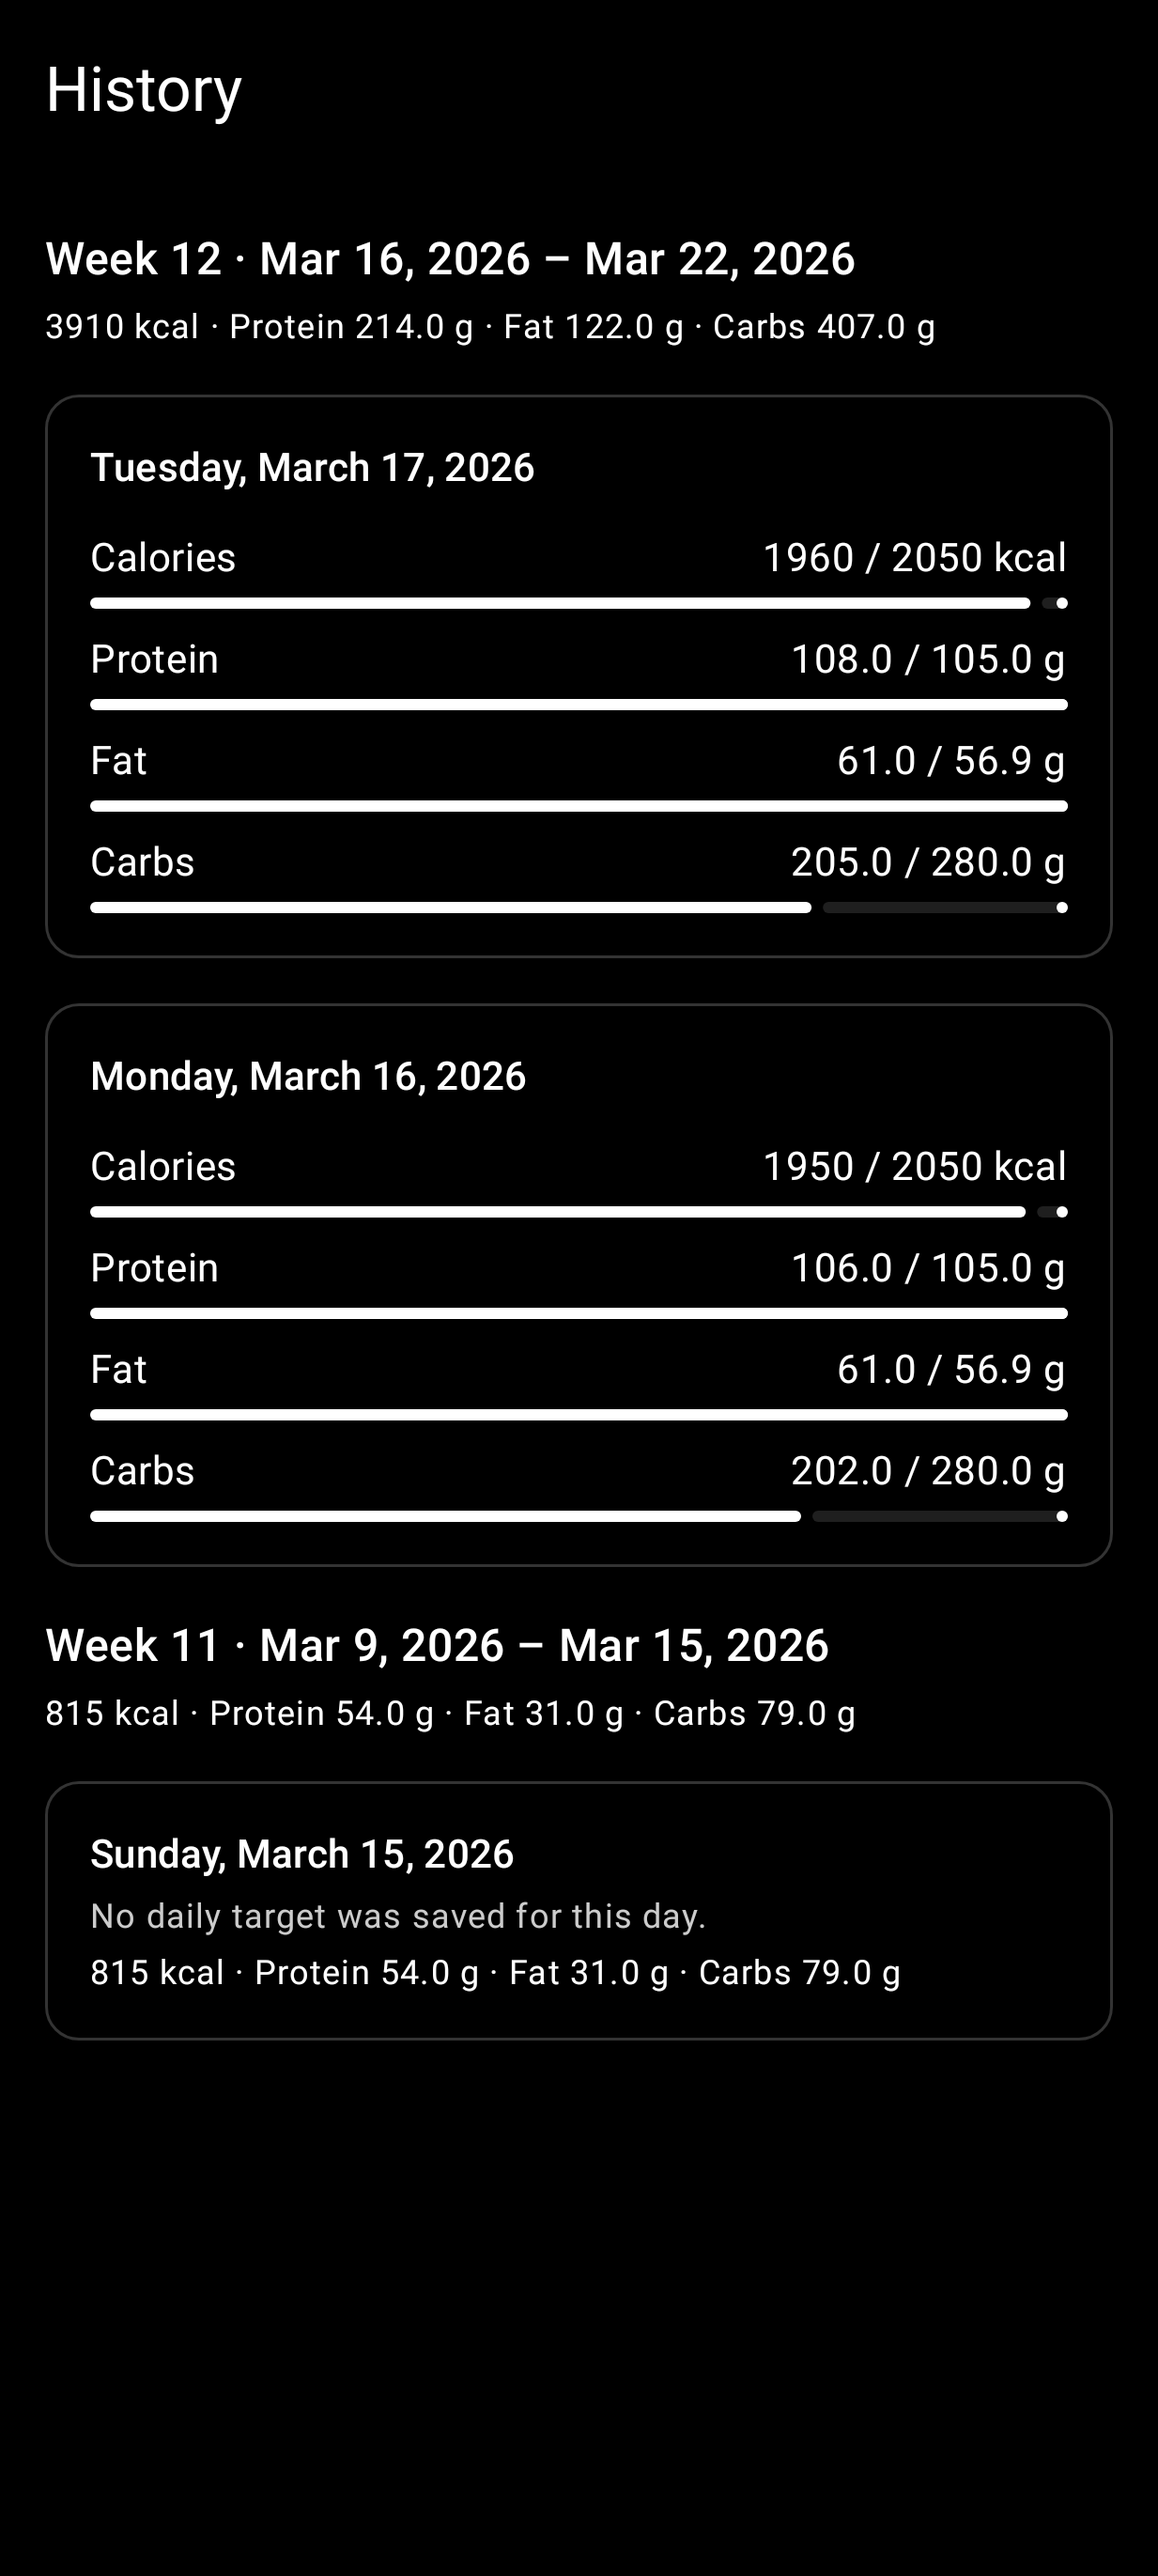
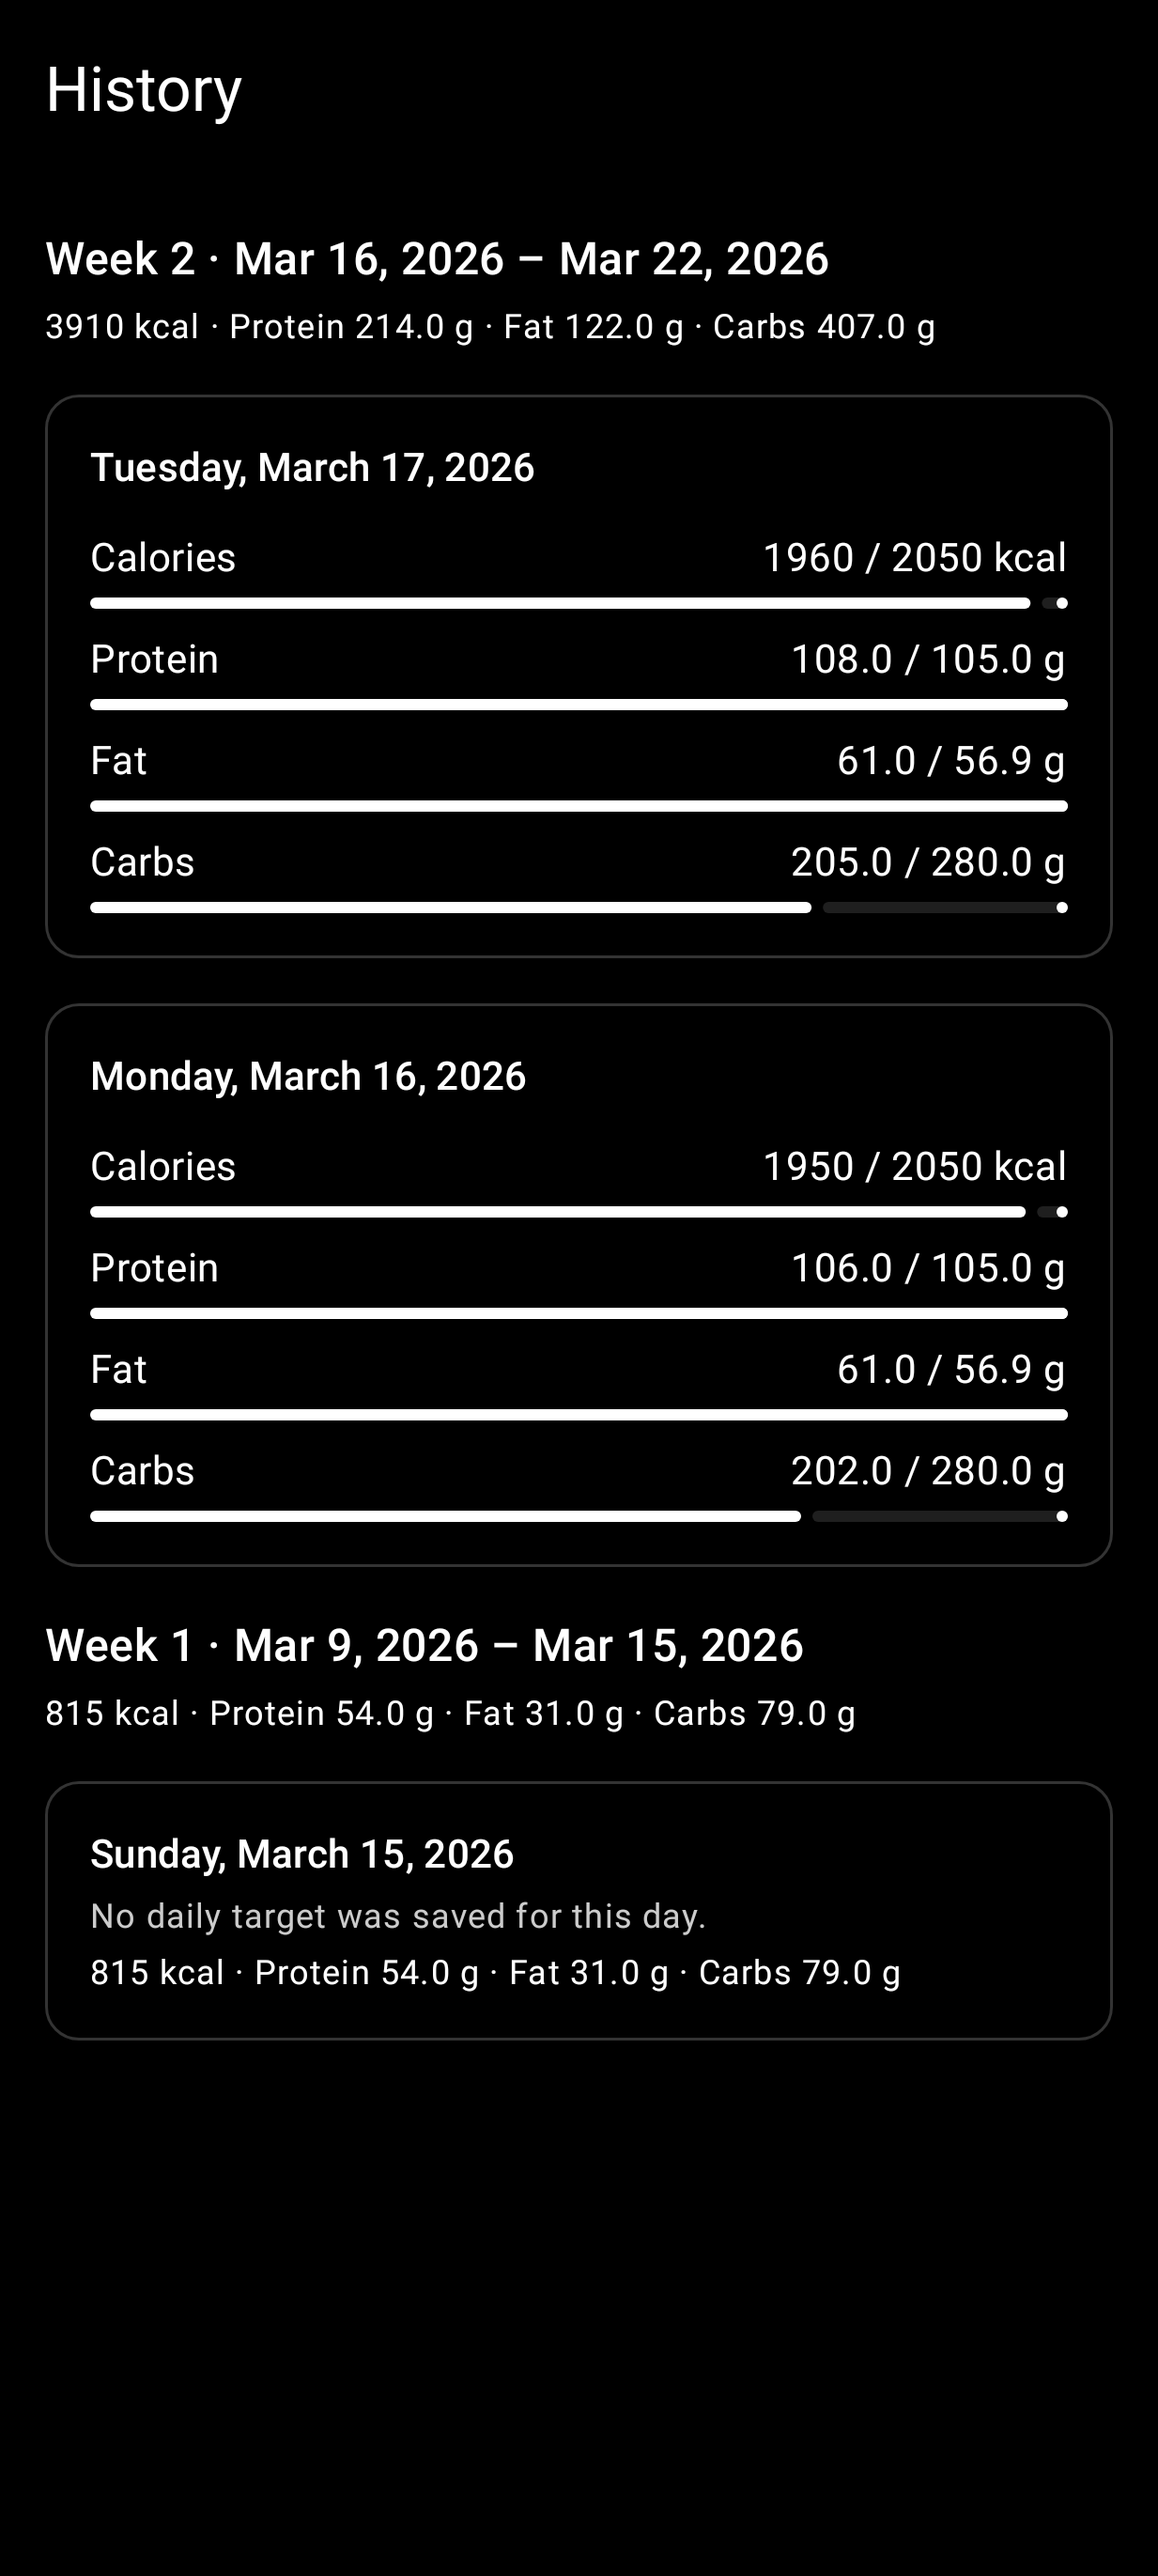
feat(history): number weeks from first log
Keep ISO week grouping and present the logged weeks as a simple sequence starting at Week 1. Update preview data, ViewModel coverage, and visual baselines.

diff --git a/app/src/main/java/app/kcal/feature/history/HistoryViewModel.kt b/app/src/main/java/app/kcal/feature/history/HistoryViewModel.kt
@@ -78,12 +78,15 @@ class HistoryViewModel @Inject constructor(
                         dailyTargetRepository.observeAll(),
                         expandedDay,
                     ) { meals, targets, expanded ->
+                        val weeks = buildHistory(meals, targets)
+                        // Number weeks from the user's first logged week, not ISO week-of-year.
+                        val total = weeks.size
                         HistoryUiState(
                             isLoading = false,
                             weeks =
-                            buildHistory(meals, targets)
-                                .map { week -> week.toUiState(expanded) }
-                                .toPersistentList(),
+                            weeks.mapIndexed { index, week ->
+                                week.toUiState(expanded, relativeWeek = total - index)
+                            }.toPersistentList(),
                         )
                     }.collect { _uiState.value = it }
                 } catch (cancellation: CancellationException) {
@@ -94,8 +97,8 @@ class HistoryViewModel @Inject constructor(
             }
     }
 
-    private fun HistoryWeek.toUiState(expanded: LocalDate?): HistoryWeekUiState = HistoryWeekUiState(
-        weekOfYear = weekOfYear,
+    private fun HistoryWeek.toUiState(expanded: LocalDate?, relativeWeek: Int): HistoryWeekUiState = HistoryWeekUiState(
+        weekOfYear = relativeWeek,
         start = start,
         end = end,
         consumed = consumed,

diff --git a/app/src/main/java/app/kcal/feature/history/HistoryUiState.kt b/app/src/main/java/app/kcal/feature/history/HistoryUiState.kt
@@ -53,7 +53,7 @@ internal val historyContentPreviewState = HistoryUiState(
     weeks =
     persistentListOf(
         HistoryWeekUiState(
-            weekOfYear = 12,
+            weekOfYear = 2,
             start = LocalDate.of(2026, 3, 16),
             end = LocalDate.of(2026, 3, 22),
             consumed = totals(kcal = 3_910, protein = 214.0, fat = 122.0, carbs = 407.0),
@@ -72,7 +72,7 @@ internal val historyContentPreviewState = HistoryUiState(
             ),
         ),
         HistoryWeekUiState(
-            weekOfYear = 11,
+            weekOfYear = 1,
             start = LocalDate.of(2026, 3, 9),
             end = LocalDate.of(2026, 3, 15),
             consumed = totals(kcal = 815, protein = 54.0, fat = 31.0, carbs = 79.0),

diff --git a/app/src/test/java/app/kcal/feature/history/HistoryViewModelTest.kt b/app/src/test/java/app/kcal/feature/history/HistoryViewModelTest.kt
@@ -72,6 +72,7 @@ class HistoryViewModelTest {
 
         val week = viewModel.uiState.value.weeks.single()
         assertFalse(viewModel.uiState.value.isLoading)
+        assertEquals(1, week.weekOfYear)
         assertEquals(1_500L, week.consumed.kcal)
         assertEquals(listOf(tuesday, monday), week.days.map { it.localDate })
         assertNull(week.days.first().progress)
